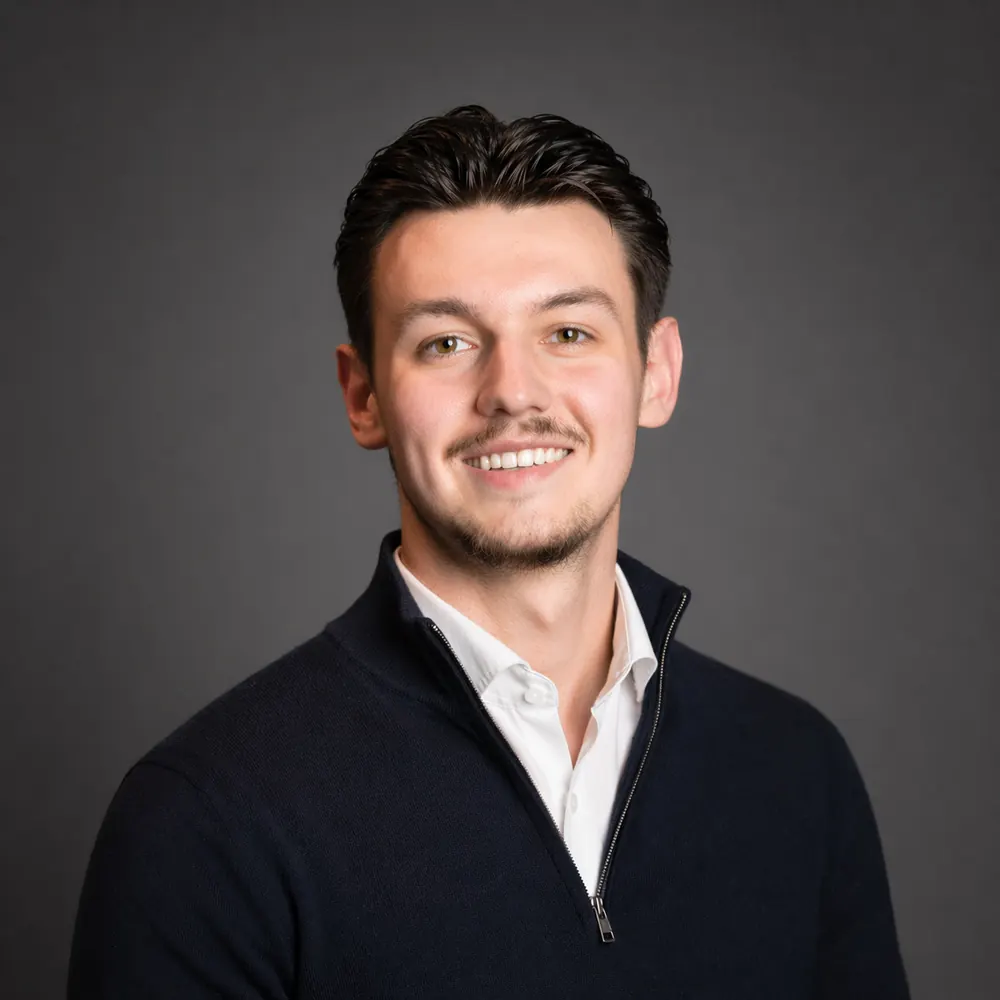
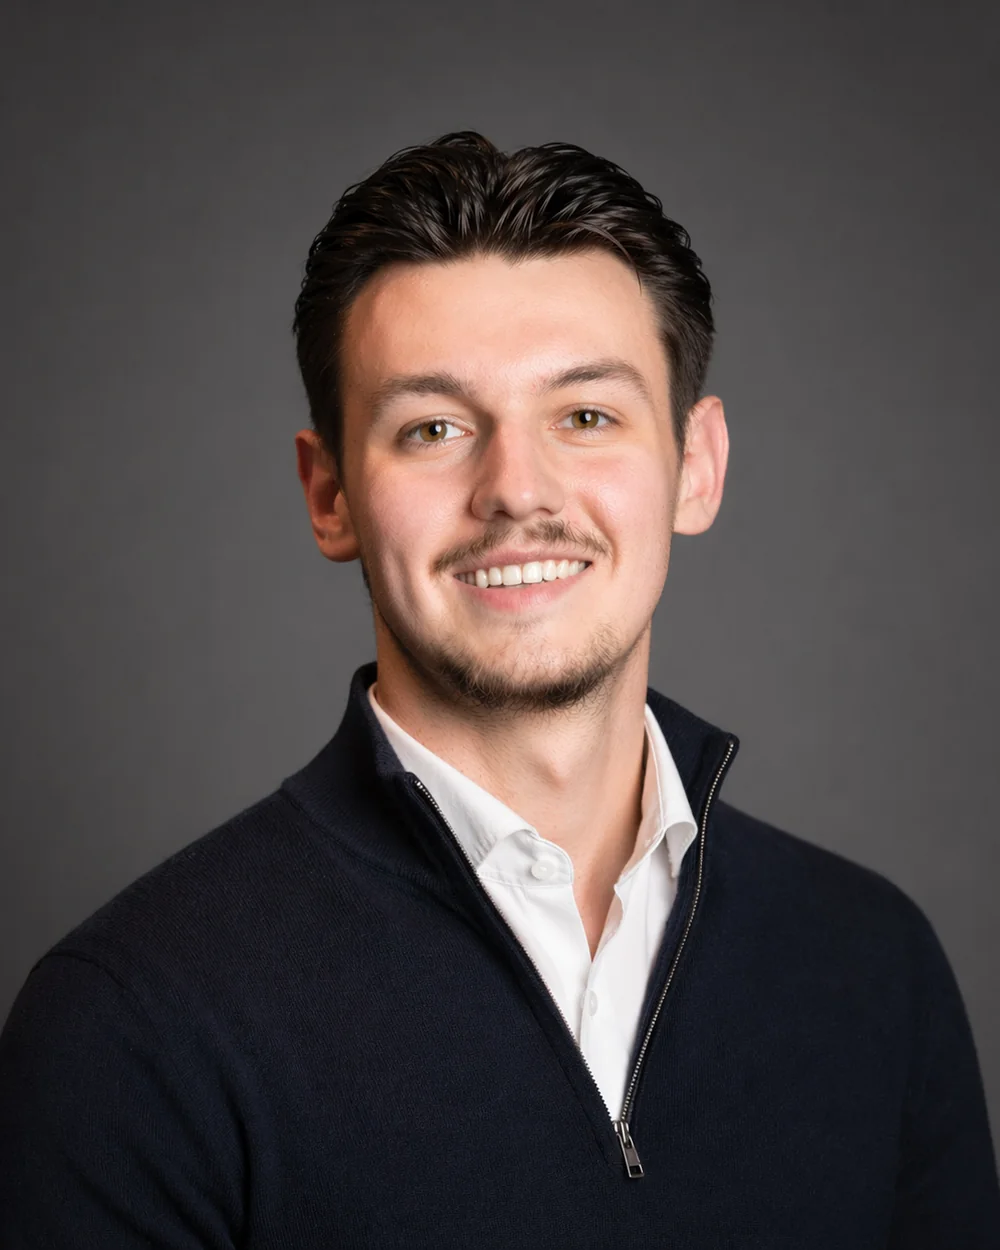
Foto's en werkwijze: portret, werkplekbeeld en sfeerbeelden (#5)
* Foto toevoegen: founder-portret.webp

* Foto toevoegen: founder-av.webp

* Foto toevoegen: werkwijze-foto.webp

* Foto toevoegen: over-werkplek.webp

* Foto toevoegen: over-klantgesprek.webp

* Foto toevoegen: kantoor-wide.webp

* Foto toevoegen: sfeer-overleg.webp

* Foto toevoegen: contact-portret.webp

* Foto toevoegen: werkplek-portret.webp

* Nieuwe beeldslots in media-manifest

* CSS voor sfeerbeeld-blokken

* Homepage: werkplekbeeld en sfeerbeeld in werkwijze

* Contact: persoonlijke regel met portret bij het formulier

* Over: beeld bij werkwijze en samenwerking

Changed region(s): [[0.0, 0.093, 1.0, 1.0]]

diff --git a/src/styles/styles.css b/src/styles/styles.css
@@ -576,3 +576,17 @@ form[aria-busy="true"] .btn-primary { opacity: .65; pointer-events: none; }
 .drawer__panel a { padding: 16px 0; border-bottom: 1px solid rgba(255,255,255,.1); font-family: var(--display); font-weight: 600; font-size: 1.4rem; letter-spacing: -0.02em; }
 .drawer__panel .btn-primary { margin-top: 20px; justify-content: center; }
 .drawer__close { align-self: flex-end; font-family: var(--mono); font-size: 0.8rem; letter-spacing: 0.1em; color: oklch(0.80 0.014 130); margin-bottom: 12px; }
+
+
+/* ---------- Sfeerbeeld-blokken (werkwijze, over, contact) ----------
+   .procband is een brede band, .photoduo twee beelden naast elkaar.
+   Beide gebruiken .mediaslot, dus de beelden komen uit media-manifest.json. */
+.procband { margin: 0 0 34px; position: relative; aspect-ratio: 16 / 7; border-radius: 16px; overflow: hidden; border: 1px solid var(--line); background: var(--card-2); }
+.photoduo { display: grid; grid-template-columns: 1fr 1fr; gap: 18px; margin-top: 34px; }
+.photoduo figure { margin: 0; position: relative; aspect-ratio: 16 / 10; border-radius: 16px; overflow: hidden; border: 1px solid var(--line); background: var(--card-2); }
+.form__person { display: flex; align-items: center; gap: 12px; margin-top: 16px; color: var(--muted); font-size: 0.9rem; line-height: 1.4; }
+.form__person-av { width: 40px; height: 40px; flex: 0 0 40px; position: relative; }
+@media (max-width: 760px) {
+  .procband { aspect-ratio: 16 / 10; }
+  .photoduo { grid-template-columns: 1fr; }
+}

diff --git a/src/routes/index.tsx b/src/routes/index.tsx
@@ -347,6 +347,10 @@ function Home() {
             </p>
           </Reveal>
           {' '}
+          <Reveal as="figure" className="procband reveal">
+            <Media id="werkwijze-foto" fit="cover" alt="Overleg over een website aan tafel" />
+          </Reveal>
+          {' '}
           <div className="steps">
             <Reveal as="div" className="step reveal">
               <span className="step__no">Stap 1</span>
@@ -849,11 +853,11 @@ function Home() {
         <div className="wrap">
           <div className="vision">
             <Reveal as="div" className="vision__media reveal">
-              <Media id="team-photo" fit="cover" placeholder="[ TEAM / PORTRET ]" alt="Twee collega's van MegaOnline samen achter een scherm" />
+              <Media id="werkplek-portret" fit="cover" placeholder="[ WERKPLEK ]" alt="Werkplek waar de websites worden gebouwd" />
             </Reveal>
             {' '}
             <Reveal as="div" className="vision__body reveal" data-d="1">
-              <span className="label">De mensen</span>
+              <span className="label">Zo werken we</span>
               {' '}
               <h2 className="h2">
                 Klein van opzet.

diff --git a/src/routes/over-megaonline.tsx b/src/routes/over-megaonline.tsx
@@ -200,6 +200,10 @@ function OverMegaonline() {
               Wij kijken verder dan design. We bouwen pas als helder is wat een bezoeker écht nodig heeft.
             </div>
           </Reveal>
+          {' '}
+          <Reveal as="figure" className="procband reveal">
+            <Media id="sfeer-overleg" fit="cover" alt="Kort overleg tijdens het werken aan een website" />
+          </Reveal>
         </div>
       </section>
       {' '}
@@ -592,6 +596,16 @@ function OverMegaonline() {
             </span>
             De echte winst zit in wat er ná livegang gebeurt. Daar blijven we aan werken.
           </Reveal>
+          {' '}
+          <div className="photoduo">
+            <Reveal as="figure" className="reveal">
+              <Media id="over-klantgesprek" fit="cover" alt="Gesprek aan tafel over een websiteproject" />
+            </Reveal>
+            {' '}
+            <Reveal as="figure" className="reveal" data-d="1">
+              <Media id="over-werkplek" fit="cover" alt="Werkplek met schermen waarop aan een website wordt gewerkt" />
+            </Reveal>
+          </div>
         </div>
       </section>
       {' '}

diff --git a/src/routes/contact.tsx b/src/routes/contact.tsx
@@ -2,6 +2,7 @@ import { createFileRoute } from '@tanstack/react-router'
 import { Link } from '@tanstack/react-router'
 import { Icon } from '@/components/Icon'
 import { Qa } from '@/components/Qa'
+import { Media } from '@/components/Media'
 import { Reveal } from '@/components/Reveal'
 import { SingleLeadForm } from '@/components/LeadForm'
 import '@/styles/pages/contact.css'
@@ -88,6 +89,13 @@ function Contact() {
                   <p>
                     We nemen contact op om een kort, vrijblijvend gesprek in te plannen op een moment dat jou uitkomt.
                   </p>
+                  {' '}
+                  <span className="form__person">
+                    <span className="form__person-av">
+                      <Media id="founder-av" fit="cover" shape="circle" alt="Joshua Bink, oprichter van MegaOnline" />
+                    </span>
+                    <span>Je spreekt direct met Joshua, oprichter van MegaOnline.</span>
+                  </span>
                 </>
               }
               ok={
